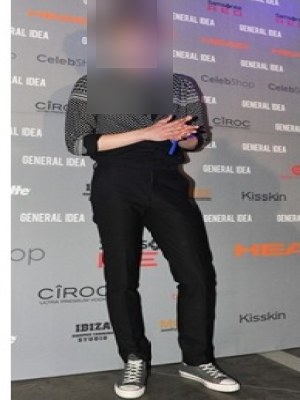
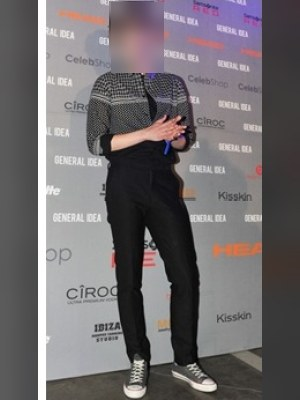
spec: aspect-preserving fit (0.12% error vs 231% stretch) + outfit-confirmation popup before camera

diff --git a/inclub-ember-spec.html b/inclub-ember-spec.html
@@ -263,6 +263,22 @@ h1 em{font-style:normal;color:var(--spark);text-shadow:0 0 34px rgba(255,122,26,
 .mz.sel .mp{color:var(--spark)}
 .mz .near{position:absolute;left:6px;bottom:4px;font-size:7px;color:var(--spark)}
 
+
+/* 촬영 전 확인 팝업 */
+.pop{position:absolute;inset:0;z-index:9;display:flex;align-items:center;justify-content:center;
+  background:rgba(4,3,8,.82);backdrop-filter:blur(3px);padding:16px}
+.popbox{width:100%;border-radius:16px;padding:16px 15px 13px;background:#140B22;
+  border:1px solid rgba(255,122,26,.45);box-shadow:0 20px 50px -20px rgba(255,122,26,.6)}
+.popbox .pi{width:34px;height:34px;border-radius:50%;display:grid;place-items:center;margin-bottom:10px;
+  background:rgba(255,122,26,.16);color:var(--spark);font-size:16px}
+.popbox h5{font-size:14px;font-weight:800;letter-spacing:-.03em;line-height:1.35;margin-bottom:7px}
+.popbox h5 em{font-style:normal;color:var(--spark)}
+.popbox p{font-size:10.5px;line-height:1.65;color:var(--dim)}
+.popbox .warn{margin-top:9px;padding:8px 9px;border-radius:8px;background:rgba(255,122,26,.09);
+  border-left:2px solid var(--spark);font-size:9.5px;line-height:1.6;color:#ffcf9e}
+.popbox .pb{margin-top:12px;display:block;text-align:center;padding:10px;border-radius:10px;
+  background:linear-gradient(135deg,#FFD9A0,#FF7A1A);color:#170A02;font-size:11.5px;font-weight:800}
+
 /* 존 체류 이력 다이어그램 */
 .trail{display:flex;align-items:stretch;gap:6px;margin:12px 0 4px;flex-wrap:wrap}
 .tstep{flex:1;min-width:120px;border:1px solid var(--line2);border-left:2px solid var(--dim2);
@@ -406,7 +422,7 @@ h1 em{font-style:normal;color:var(--spark);text-shadow:0 0 34px rgba(255,122,26,
     <div class="snum">01</div>
     <div class="stitle"><h2>입장 — 오늘의 룩 한 장</h2><span class="skicker">Entry · 입구 QR · 20초 · 유일하게 남긴 등록 단계</span></div>
   </div>
-  <p class="slead">이 화면만은 <b>줄일 수 없었습니다</b>. 룩 카드가 없으면 상대가 나를 알아볼 단서가 사라지고, 색으로 찾는 것도 스파크에 나를 동봉하는 것도 성립하지 않습니다. 3,000명 규모에서는 <u>여기서 뽑는 색 두 개가 유일하게 믿을 수 있는 검색 키</u>입니다.</p>
+  <p class="slead">이 화면만은 <b>줄일 수 없었습니다</b>. 룩 카드가 없으면 상대가 나를 알아볼 단서가 사라지고, 색으로 찾는 것도 스파크에 나를 동봉하는 것도 성립하지 않습니다. 3,000명 규모에서는 <u>여기서 뽑는 색 두 개가 유일하게 믿을 수 있는 검색 키</u>입니다. 그래서 촬영 전에 <b>"클럽에서 입을 그 옷인가"</b>를 반드시 확인받습니다.</p>
   <div class="sbody">
     <div class="devwrap"><div class="dev"><div class="scr">
       <div class="bar"><b>23:38</b><span>5G ▮▮▮</span></div>
@@ -417,6 +433,13 @@ h1 em{font-style:normal;color:var(--spark);text-shadow:0 0 34px rgba(255,122,26,
           <div class="grain"></div><div class="veil"></div>
           <span class="tag">FULL BODY · AUTO CROP</span>
           <div class="lmeta"><i style="background:#111"></i><i style="background:#2B4C8C"></i><span>상의 BLACK · 하의 DENIM</span></div>
+          <div class="pop"><div class="popbox">
+            <div class="pi">!</div>
+            <h5>지금 <em>클럽에서 입을 그 옷</em>으로<br>찍어주세요</h5>
+            <p>상대는 얼굴이 아니라 <b style="color:var(--paper)">이 옷</b>으로 당신을 찾습니다.</p>
+            <div class="warn">겉옷을 벗거나 옷을 갈아입으면 아무도 알아볼 수 없습니다.<br>바뀌었다면 다시 찍어 주세요.</div>
+            <span class="pb">이 옷으로 입장합니다</span>
+          </div></div>
         </div>
         <div class="chips" style="margin-top:10px">
           <span class="chip on">MAIN FLOOR · 비콘 자동</span>
@@ -429,19 +452,29 @@ h1 em{font-style:normal;color:var(--spark);text-shadow:0 0 34px rgba(255,122,26,
       </div>
     </div></div></div>
     <ol class="co">
-      <li><span class="num">01</span><div><h4>얼굴이 아니라 룩이 ID — 블러는 <u>가려질 때까지</u> 강해진다</h4>
+      <li><span class="num">01</span><div><h4>촬영 전 팝업 — "지금 <u>클럽에서 입을 그 옷</u>으로"</h4>
+        <p>이 앱 전체가 딛고 선 <b>단 하나의 전제</b>입니다. 상대가 나를 알아보는 단서는 오직 옷인데, <b>옷이 바뀌면 그 단서가 통째로 사라집니다.</b> 겉옷을 벗는 것만으로도 다른 사람이 됩니다.<br>
+        그래서 카메라를 열기 전에 팝업이 먼저 뜨고, 사용자는 <u>"이 옷으로 입장합니다"</u>를 눌러야 촬영이 시작됩니다. 이건 안내가 아니라 <b>확인 절차</b>입니다.<br>
+        추가 안전장치: 입장 후 옷이 바뀌었다면 룩을 다시 찍을 수 있고(하룻밤 1회 교체), 교체하면 이미 보낸 스파크의 카드도 함께 갱신됩니다.</p>
+        <span class="tech">CONFIRM BEFORE CAMERA · RE-SHOOT 1× PER NIGHT · UPDATES SENT CARDS</span></div></li>
+      <li><span class="num">02</span><div><h4>얼굴이 아니라 룩이 ID — 블러는 <u>가려질 때까지</u> 강해진다</h4>
         <p>어두운 실내에서 사람이 기억하는 건 얼굴이 아니라 <b>실루엣과 색</b>입니다. 얼굴 블러는 기본 ON.<br>
         ⚠ 실측에서 드러난 것: <b>가우시안 블러 한 번으로는 부족합니다.</b> 흐리게 만든 13장 중 <u>10장에서 검출기가 얼굴을 다시 찾아냈습니다</u> — 사람 눈에 뿌옇게 보여도 구조가 남아 있으면 가려진 게 아닙니다.<br>
         그래서 기능을 '한 번 흐리기'가 아니라 <b>재검출로 확인하며 단계를 올리는 루프</b>로 만들었습니다: ① 블러 → ② 블러＋모자이크 → ③ 거친 모자이크 → ④ 단색. 각 단계마다 다시 검출해 안 잡힐 때까지 올리고, 마지막 단계는 반드시 통과합니다.<br>
         <b>실측 결과: 13장 전부 통과</b>(1단계 5장 · 2단계 8장). 검출 자체가 실패하면 상단 22%를 통째로 가리는 폴백이 받습니다 — 전신 크롭에서 머리는 반드시 위쪽에 있으니까요.</p>
         <span class="tech">YuNet DNN · ESCALATE UNTIL UNDETECTED · 13/13 PASS · FALLBACK TOP 22%</span></div></li>
-      <li><span class="num">02</span><div><h4>색을 <u>두 개</u> 뽑는다 — 3,000명이 만든 변경</h4>
+      <li><span class="num">03</span><div><h4>사람의 비율은 <u>절대</u> 바뀌지 않는다</h4>
+        <p>카드 크기에 맞춘다고 사진을 늘리면 안 됩니다. 실측에서 <b>가로가 최대 231%까지 퍼져</b> 같은 사람이 두 배 넓어 보였습니다 — 몸이 왜곡되면 이 앱에서 사람을 찾는 유일한 단서가 망가집니다.<br>
+        규칙: <b>전체가 들어가는 배율로만 축소하고, 남는 자리는 여백으로 채웁니다.</b> 여백은 같은 사진을 크롭·블러해 어둡게 깔아 카드가 깨져 보이지 않게 합니다(배경도 크롭이라 늘어나지 않습니다).<br>
+        <b>실측: 비율 오차 0.12%</b> — 반올림 수준입니다. 앱 카메라로 3:4로 찍어도 이 규칙은 그대로 지켜집니다.</p>
+        <span class="tech">CONTAIN FIT · NEVER STRETCH · AR ERROR ≤0.12% (이전 방식 최대 131% 왜곡)</span></div></li>
+      <li><span class="num">04</span><div><h4>색을 <u>두 개</u> 뽑는다 — 3,000명이 만든 변경</h4>
         <p>구 스펙도 상·하의 색을 뽑았지만 <b>검색은 한 색으로만</b> 했습니다. 만석에서 검정 상의는 432명입니다. 하의 색까지 검색 키로 쓰면 173명 — 이 한 가지가 대형 클럽에서 앱이 작동하냐 마냐를 가릅니다.</p>
         <span class="tech">K-MEANS × 2 · TOP + BOTTOM · 12 BUCKETS EACH</span></div></li>
-      <li><span class="num">03</span><div><h4>존은 시스템이 채운다</h4>
+      <li><span class="num">05</span><div><h4>존은 시스템이 채운다</h4>
         <p>BLE 비콘이 지금 구역을 자동 태깅합니다. 미터 측위가 아니라 <b>구역 단위</b>라 오차에 강하고, 이 값이 그리드의 <u>1차 필터로 자동 적용</u>됩니다 — 존 맵 화면이 사라진 이유입니다.</p>
         <span class="tech">BLE BEACON × 6 ZONES · RSSI 근접도 동시 수집</span></div></li>
-      <li><span class="num">04</span><div><h4>소멸을 먼저 약속한다</h4>
+      <li><span class="num">06</span><div><h4>소멸을 먼저 약속한다</h4>
         <p>등록 화면에서 삭제 시각을 못 박습니다. 이 한 줄이 사진 등록 허들을 크게 낮춥니다. 남지 않는다는 확신이 있어야 오늘 밤의 나를 올립니다.</p>
         <span class="tech">TTL 05:00 KST · HARD DELETE</span></div></li>
     </ol>
@@ -501,7 +534,7 @@ h1 em{font-style:normal;color:var(--spark);text-shadow:0 0 34px rgba(255,122,26,
         <span class="tech">SORT: seenMinsAgo ASC → RSSI DESC</span></div></li>
       <li><span class="num">04</span><div><h4>한 장씩 넘기지 않는다 — 3,000명이 만든 두 번째 변경</h4>
         <p>39명을 카드 덱으로 보면 39번 스와이프입니다. <b>3열 그리드는 한 화면에 12명</b>, 세 번 스크롤이면 끝납니다. 찾는 행위에는 그리드가, 결정하는 행위에는 큰 카드가 맞습니다 — 그래서 <u>탭하면 그 자리에서 크게 열립니다.</u></p>
-        <span class="tech">3-COL GRID · MAX 40 · NO INFINITE SCROLL</span><br><span class="tech" style="margin-top:4px">샘플 = 실제 룩 사진에 **우리 얼굴 블러 기능을 돌린 결과** (13/13 검증 통과)</span></div></li>
+        <span class="tech">3-COL GRID · MAX 40 · NO INFINITE SCROLL</span><br><span class="tech" style="margin-top:4px">샘플 = 실제 룩 사진에 우리 기능을 돌린 결과 — 비율 보존(오차 0.12%) + 얼굴 가림 13/13 검증 통과</span></div></li>
       <li><span class="num">05</span><div><h4>홀드 하나가 보내기·수락·플레어 전부</h4>
         <p>그리드 칸을 1.2초 꾹 = 스파크(화면 전환 없음). 받은 카드를 꾹 = 수락. 내 카드를 꾹 = 플레어. <b>대상만 다르고 동작은 같습니다.</b> 중간에 떼면 링이 되감기며 아무 일도 없어, 취한 손가락이 3발을 흘릴 방법이 없습니다.</p>
         <span class="tech">HOLD_MS 1200 · RELEASE = REWIND 400ms</span></div></li>
